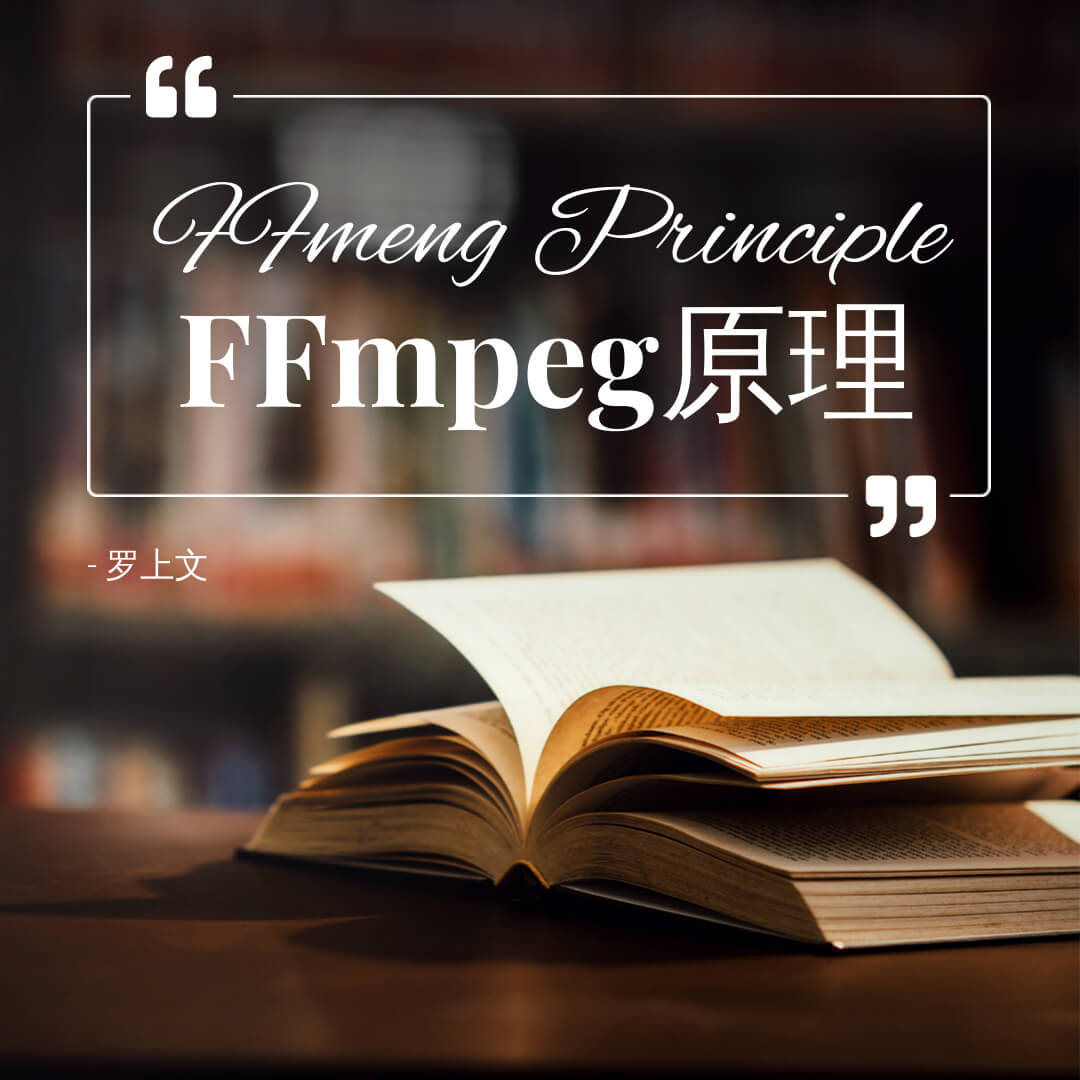
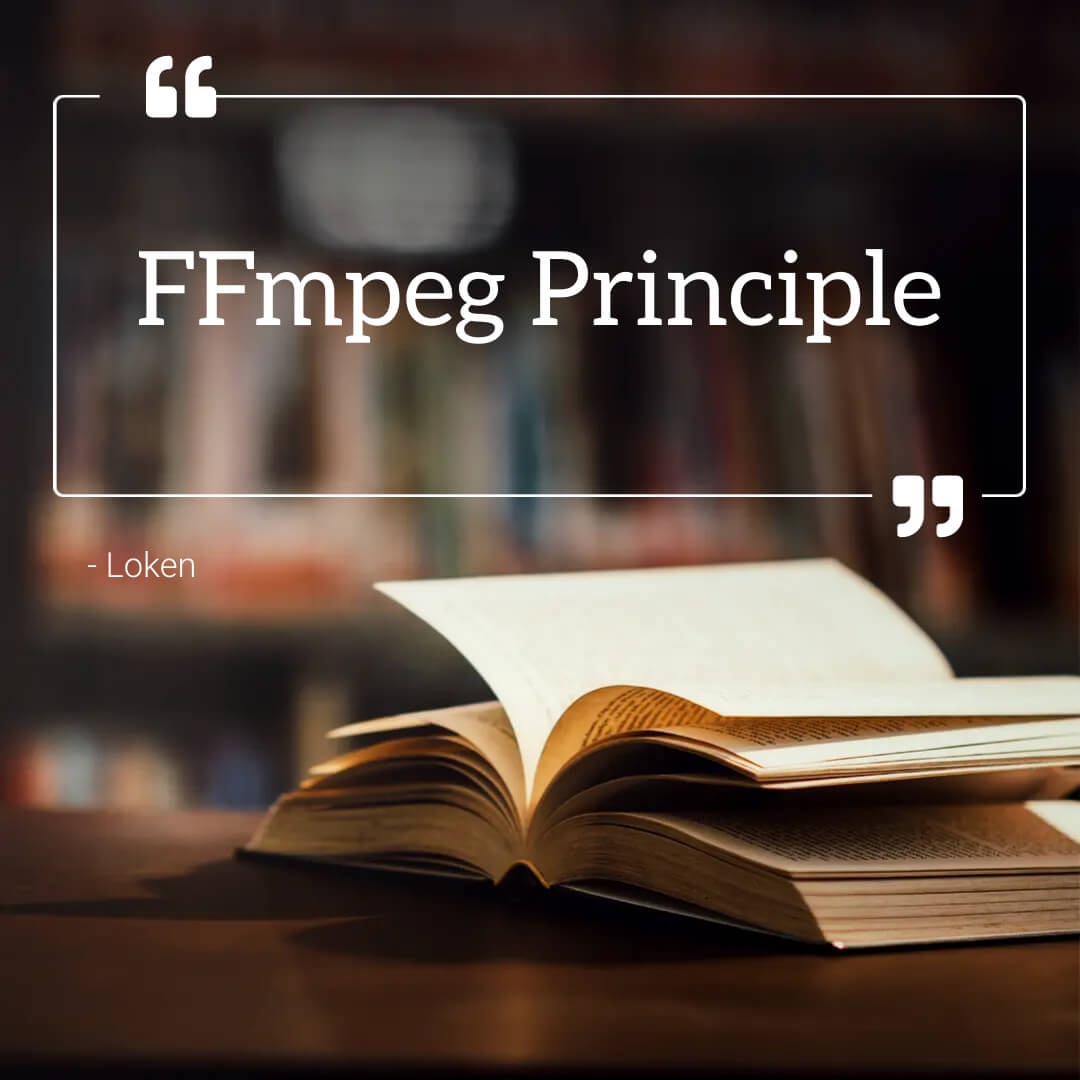
Update English Cover

diff --git a/en/cover.md b/en/cover.md
@@ -1,9 +1,9 @@
-# Cover - Principle of FFmpeg
+# Cover - FFmpeg Principle
 
 <div id="no_ads">
 </div>
 
-<div id="meta-description---">Cover - Principle of FFmpeg</div>
+<div id="meta-description---">Cover - FFmpeg Principle</div>
 
 <img src="./img/cover.jpg" alt="cover" style="zoom:30%;" />
 
